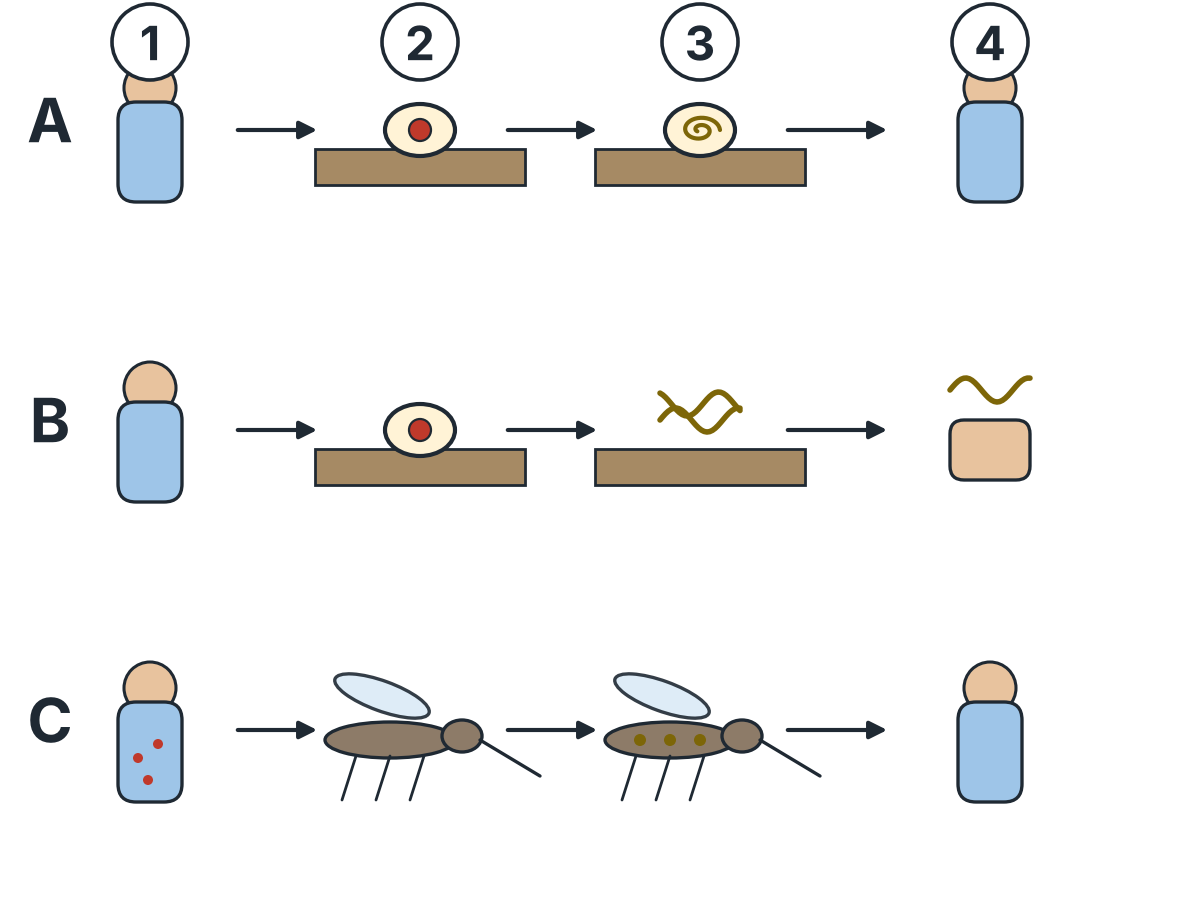
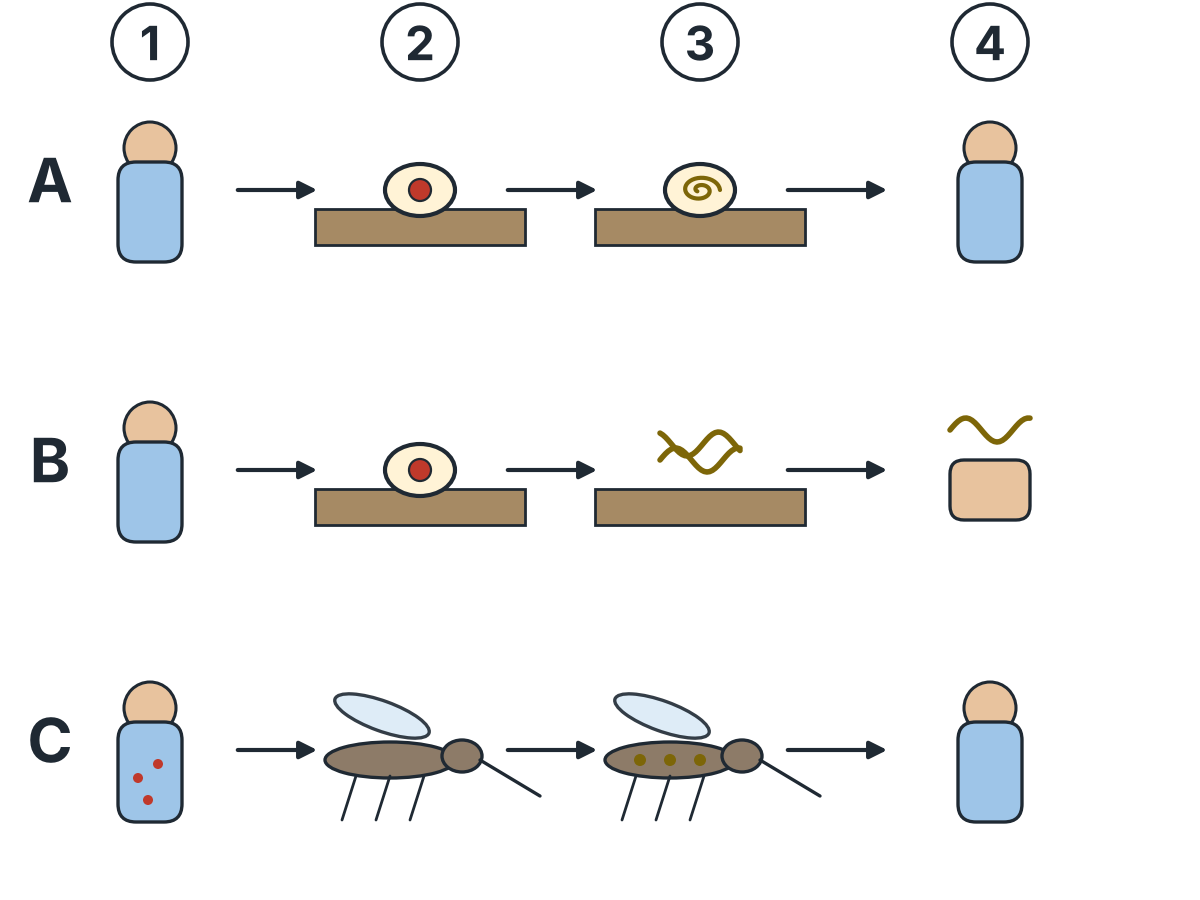
Figures stage 2c: chelicerate plan and stem-borer cycle; audit fixes (numeral clamp, aurelia dome, nematode-routes heads, fluke caption key); docs
Claude-Session: https://claude.ai/code/session_01QePQvU2CP48MhK51vJMGir

diff --git a/native-app/app/src/main/java/com/gasczoology/invertebratelab/data/PlatyAdaptationsBookChapter.kt b/native-app/app/src/main/java/com/gasczoology/invertebratelab/data/PlatyAdaptationsBookChapter.kt
@@ -109,8 +109,8 @@ object PlatyAdaptationsBookChapter {
                     bp("In the life cycle of a fluke each larva has a task. The miracidium is a ciliated, swimming larva whose task is to find and enter the snail. Inside the snail the sporocyst and the rediae multiply the parasite without any sexual process, by the production of germ cells that develop into new larvae. The cercaria has a tail, leaves the snail and swims or crawls until it settles on a surface and encysts, as a metacercaria, which is the stage that infects the final host. The larvae are thus a series of devices, in which the first finds a host, the middle ones multiply, and the last waits for a host.",
                         "புழுவின் வாழ்க்கைச் சுழற்சியில் ஒவ்வொரு லார்வாவுக்கும் ஒரு பணி உள்ளது. மிராசிடியம் சிலியா கொண்ட நீந்தும் லார்வா; நத்தையைக் கண்டுபிடித்து நுழைவது அதன் பணி. நத்தையினுள் ஸ்போரோசிஸ்டும் ரெடியாவும் பாலியல் செயல்முறை இன்றி, புதிய லார்வாக்களாக வளரும் இனச் செல்களை உருவாக்கி ஒட்டுண்ணியைப் பெருக்குகின்றன. வால் கொண்ட செர்க்கேரியா நத்தையை விட்டு வெளியேறி, ஒரு பரப்பில் படிந்து மெட்டாசெர்க்கேரியாவாகப் புடைப்புறை உருவாக்கும் வரை நீந்துகிறது அல்லது ஊர்கிறது; இதுவே இறுதி விருந்தோம்பியைத் தொற்றும் நிலை. இவ்வாறு லார்வாக்கள் ஒரு தொடர் சாதனங்கள்: முதலாவது விருந்தோம்பியைக் கண்டறிகிறது, நடுவில் உள்ளவை பெருக்குகின்றன, கடைசி விருந்தோம்பிக்காகக் காத்திருக்கிறது."),
                     bfig("lib/fluke-larvae",
-                        "Larval series of a fluke (schematic; the heavy outline is the snail host): (1) miracidium, which finds and enters the snail, (2) sporocyst and (3) rediae, which multiply the parasite asexually (curved arrow), (4) cercaria with a tail, which leaves the snail, (5) metacercaria, encysted on a surface, (6) final host, infected by the metacercaria.",
-                        "தட்டைப்புழு (ஃப்ளூக்) லார்வா வரிசை (படத்திட்டம்; தடித்த வெளிக்கோடு நத்தை விருந்தோம்பி): (1) நத்தையைக் கண்டறிந்து நுழையும் மிராசிடியம், (2) ஸ்போரோசிஸ்ட் மற்றும் (3) ரெடியாக்கள், இவை பாலிலா முறையில் ஒட்டுண்ணியைப் பெருக்குகின்றன (வளைந்த அம்பு), (4) வாலுடன் நத்தையை விட்டு வெளியேறும் செர்க்காரியா, (5) ஒரு பரப்பில் கூடு கட்டிய மெட்டாசெர்க்காரியா, (6) மெட்டாசெர்க்காரியாவால் தொற்றப்படும் இறுதி விருந்தோம்பி."),
+                        "Larval series of a fluke (schematic): (1) miracidium, which finds and enters the snail, (2) sporocyst and (3) rediae, which multiply the parasite asexually (curved arrow), (4) cercaria with a tail, which leaves the snail, (5) metacercaria, encysted on a surface, (6) final host, infected by the metacercaria, (7) the snail host (heavy outline).",
+                        "தட்டைப்புழு (ஃப்ளூக்) லார்வா வரிசை (படத்திட்டம்): (1) நத்தையைக் கண்டறிந்து நுழையும் மிராசிடியம், (2) ஸ்போரோசிஸ்ட் மற்றும் (3) ரெடியாக்கள், இவை பாலிலா முறையில் ஒட்டுண்ணியைப் பெருக்குகின்றன (வளைந்த அம்பு), (4) வாலுடன் நத்தையை விட்டு வெளியேறும் செர்க்காரியா, (5) ஒரு பரப்பில் கூடு கட்டிய மெட்டாசெர்க்காரியா, (6) மெட்டாசெர்க்காரியாவால் தொற்றப்படும் இறுதி விருந்தோம்பி, (7) நத்தை விருந்தோம்பி (தடித்த வெளிக்கோடு)."),
                     bdef("Cercaria", "செர்க்கேரியா (Cercaria)", "The tailed larva that leaves the snail in a fluke life cycle and goes on to infect the next host or to encyst." to
                         "புழு வாழ்க்கைச் சுழற்சியில் நத்தையை விட்டு வெளியேறி அடுத்த விருந்தோம்பியைத் தொற்றும் அல்லது புடைப்புறை உருவாக்கும் வால் கொண்ட லார்வா."),
                     bdef("Metacercaria", "மெட்டாசெர்க்கேரியா (Metacercaria)", "The encysted resting stage of a fluke that infects the final host when it is swallowed." to

diff --git a/native-app/app/src/main/java/com/gasczoology/invertebratelab/data/CerealPestsBookChapter.kt b/native-app/app/src/main/java/com/gasczoology/invertebratelab/data/CerealPestsBookChapter.kt
@@ -30,6 +30,9 @@ object CerealPestsBookChapter {
                     bsub("Life history", "வாழ்க்கை வரலாறு",
                         bp("The female moth is bright yellowish brown with a black spot in the middle of each forewing and a tuft of yellow hairs at the tip of the abdomen, and the male is smaller and paler, with no spot. The female lays her eggs near the tips of the leaves in masses that are covered with buff-coloured hairs from her abdomen, which protect the eggs. The eggs hatch in about five to eight days. The tiny larvae spin silk threads, drift on the wind to other plants or to the base of the plant, and bore into the leaf sheath and then into the stem. The larva is pale yellow with a dark brown head and feeds inside for about 28 to 30 days, passing through several instars. It pupates in a white silken cocoon within the stem or in the stubble, and the pupal period is about 8 to 10 days. In regions with a dry or cold season the larva may remain inactive in the stubble, and this resting stage allows the pest to survive until the next crop." to
                             "பெண் அந்துப்பூச்சி பளிச்சிடும் மஞ்சள் கலந்த பழுப்பு நிறம்; ஒவ்வொரு முன்னிறக்கையின் நடுவிலும் கரும்புள்ளியும் வயிற்று நுனியில் மஞ்சள் மயிர்க்கொத்தும் உள்ளன; ஆண் சிறியது, வெளிர் நிறம், புள்ளியற்றது. பெண் ஓலைகளின் நுனி அருகே, வயிற்றிலிருந்து வரும் மஞ்சள் பழுப்பு மயிர்களால் மூடப்பட்டு முட்டைகளைக் காக்கும் திரள்களாக முட்டையிடுகிறது. முட்டைகள் ஏறக்குறைய ஐந்து முதல் எட்டு நாட்களில் பொரிகின்றன. சிறு புழுக்கள் பட்டு இழைகளை நெய்து காற்றில் மிதந்து பிற தாவரங்களுக்கோ தாவர அடிக்கோ சென்று, இலையுறைக்குள்ளும் பின் தண்டுக்குள்ளும் துளைக்கின்றன. புழு வெளிர் மஞ்சள், அடர் பழுப்பு தலையுடையது; பல புழுப் பருவங்களைக் கடந்து உள்ளே ஏறக்குறைய 28 முதல் 30 நாட்கள் உண்கிறது. தண்டுக்குள் அல்லது அடிக்கட்டையில் வெள்ளைப் பட்டுக் கூட்டில் கூட்டுப்புழுவாகிறது; கூட்டுப்புழுக் காலம் ஏறக்குறைய 8 முதல் 10 நாட்கள். வறண்ட அல்லது குளிர் பருவம் உள்ள பகுதிகளில் புழு அடிக்கட்டையில் செயலற்று இருக்கக்கூடும்; இந்த ஓய்வு நிலை அடுத்த பயிர் வரை பீடை உயிர் வாழ உதவுகிறது."),
+                        bfig("lib/stem-borer-cycle",
+                            "Life cycle of the yellow stem borer (schematic): (1) egg mass near the tip of a rice leaf, covered with hairs from the female, (2) larva boring in the stem, (3) pupa in a silken cocoon within the stem or stubble, (4) adult moth.",
+                            "மஞ்சள் தண்டுத் துளைப்பானின் வாழ்க்கைச் சுழற்சி (படத்திட்டம்): (1) நெல் இலையின் நுனிக்கருகில் பெண் அந்துப்பூச்சியின் முடிகளால் மூடப்பட்ட முட்டைக் குவியல், (2) தண்டைத் துளைக்கும் புழு, (3) தண்டிலோ அடிக்கட்டையிலோ பட்டு கூட்டில் உள்ள கூட்டுப்புழு, (4) முதிர்ந்த அந்துப்பூச்சி."),
                         btable("Life history of the yellow stem borer", "மஞ்சள் தண்டுத் துளைப்பானின் வாழ்க்கை வரலாறு",
                             listOf("Stage" to "நிலை", "Description" to "விளக்கம்", "Approximate duration" to "ஏறக்குறைய கால அளவு"),
                             listOf(

diff --git a/native-app/app/src/main/java/com/gasczoology/invertebratelab/data/ChelicerataBookChapter.kt b/native-app/app/src/main/java/com/gasczoology/invertebratelab/data/ChelicerataBookChapter.kt
@@ -24,6 +24,9 @@ object ChelicerataBookChapter {
                     bsub("The body plan", "உடல் அமைப்பு",
                         bp("The body of a chelicerate is divided into two regions, the prosoma and the opisthosoma. The prosoma, which is also called the cephalothorax, is formed by the fusion of the head and the thorax, and it is covered by a single shield, the carapace. It carries the eyes and six pairs of appendages. The first pair are the chelicerae, which are used for seizing and tearing the food or, in the spiders, for injecting venom. The second pair are the pedipalps, which are sensory in the spiders, large pincers in the scorpions and leg-like in the horseshoe crab. The last four pairs are the walking legs. The opisthosoma, or abdomen, carries the respiratory and the reproductive organs, and it may end in a tail spine or sting." to
                             "செலிசெராட்டாவின் உடல் புரோசோமா, ஆப்பிஸ்தோசோமா என இரு பகுதிகளாகப் பிரிகிறது. புரோசோமா (செபலோதொராக்ஸ் எனவும் அழைக்கப்படும்) தலையும் மார்பும் இணைந்து உருவானது; ஒற்றைக் கேடயமான காரபேசால் மூடப்பட்டுள்ளது. அது கண்களையும் ஆறு இணை உறுப்புகளையும் தாங்குகிறது. முதல் இணை செலிசெராக்கள்; உணவைப் பற்றவும் கிழிக்கவும், சிலந்திகளில் நஞ்சு செலுத்தவும் பயன்படுகின்றன. இரண்டாம் இணை பெடிபால்ப்கள்; சிலந்திகளில் உணர்வுறுப்புகள், தேள்களில் பெரிய இடுக்கிகள், குதிரைலாட நண்டில் கால் போன்றவை. கடைசி நான்கு இணைகள் நடைக்கால்கள். ஆப்பிஸ்தோசோமா (வயிறு) சுவாச, இனப்பெருக்க உறுப்புகளைத் தாங்குகிறது; வால் முள் அல்லது கொடுக்கில் முடியலாம்."),
+                        bfig("lib/chelicerate-plan",
+                            "Body plan of a chelicerate in dorsal view (schematic, based on a spider-like form; the pedipalps differ among the groups): (1) prosoma, covered by a single carapace, (2) opisthosoma, (3) eyes, (4) chelicerae, first pair, (5) pedipalps, second pair, (6) walking legs, four pairs, (7) tail spine, present in some forms.",
+                            "செலிசெரேட்டின் உடல் அமைப்பு, முதுகுப்புறக் காட்சி (படத்திட்டம், சிலந்தி போன்ற வடிவை அடிப்படையாகக் கொண்டது; பெடிபால்ப்கள் குழுக்களுக்கிடையே வேறுபடும்): (1) ஒரே கேரப்பேசால் மூடப்பட்ட புரோசோமா, (2) ஓபிஸ்தோசோமா, (3) கண்கள், (4) செலிசெராக்கள், முதல் இணை, (5) பெடிபால்ப்கள், இரண்டாம் இணை, (6) நடைக்கால்கள், நான்கு இணைகள், (7) சில வடிவங்களில் உள்ள வால்முள்."),
                         bdef("Prosoma", "புரோசோமா (Prosoma)", "The anterior body region of a chelicerate, formed by fusion of head and thorax and bearing the eyes and six pairs of appendages." to
                             "செலிசெராட்டாவின் முன் உடல் பகுதி; தலையும் மார்பும் இணைந்து உருவாகி, கண்களையும் ஆறு இணை உறுப்புகளையும் தாங்குகிறது."),
                         bdef("Opisthosoma", "ஆப்பிஸ்தோசோமா (Opisthosoma)", "The posterior body region of a chelicerate, or abdomen, bearing the respiratory and reproductive organs." to

diff --git a/native-app/app/src/main/java/com/gasczoology/invertebratelab/data/BookFigureLibrary.kt b/native-app/app/src/main/java/com/gasczoology/invertebratelab/data/BookFigureLibrary.kt
@@ -70,7 +70,7 @@ object BookFigureLibrary {
         "cuticle-layers", "limb-lever", "cephalopod-circulation", "cockroach-gut",
         "wuchereria-cycle", "fluke-larvae", "sponge-sexual-cycle", "food-vacuole",
         "tardigrade", "scaphopod", "termite-castes", "waggle-dance", "obelia-colony",
-        "peripatus-external", "squid-jet",
+        "peripatus-external", "squid-jet", "chelicerate-plan", "stem-borer-cycle",
     ).map { BookLibraryFigure(it, "book_figures/$it", schematic) }
 
     private val byId = all.associateBy { it.id }

diff --git a/tools/book_figure_gen.py b/tools/book_figure_gen.py
@@ -51,6 +51,9 @@ def num(ax, n, tx, ty, px=None, py=None, r=38):
         ax.plot([tx, px], [ty, py], color=INK, lw=1.8, zorder=8)
         ax.add_patch(Circle((px, py), 5, color=INK, zorder=9))
     r = max(r, 38)   # numerals must stay readable when the figure is shown at phone width
+    x0, x1 = ax.get_xlim(); y0, y1 = ax.get_ylim()   # keep the whole marker inside the picture
+    tx = min(max(tx, x0 + r + 4), x1 - r - 4)
+    ty = min(max(ty, y0 + r + 4), y1 - r - 4)
     ax.add_patch(Circle((tx, ty), r, fc="white", ec=INK, lw=2.6, zorder=10))
     ax.text(tx, ty - 1, str(n), ha="center", va="center", fontsize=(34 if n < 10 else 29), fontweight="bold",
             color=INK, zorder=11)
@@ -636,7 +639,7 @@ def aurelia_cycle():
             line(ax, [(x + dx * s, y), (x + dx * s * 1.4, y - 100 * s)], lw=4, color="#7fa6c9")
         for dx in range(-140, 141, 28):
             line(ax, [(x + dx * s, y), (x + dx * s, y - 22 * s)], lw=1.5)
-    medusa(600, 760, 1.0)
+    medusa(600, 735, 1.0)
     # 2 planula (right)
     ell(ax, 1000, 640, 160, 80, fc="#f7e6b5")
     for k in range(10):
@@ -657,7 +660,7 @@ def aurelia_cycle():
         a = 2 * np.pi * k / 8
         poly(ax, [(x + 22 * np.cos(a - 0.2), y + 22 * np.sin(a - 0.2)), (x + 78 * np.cos(a), y + 78 * np.sin(a)), (x + 22 * np.cos(a + 0.2), y + 22 * np.sin(a + 0.2))], fc="#d6e8f7", lw=2)
     ax.add_patch(Circle((x, y), 28, fc="#d6e8f7", ec=INK, lw=2.4, zorder=4))
-    arrow(ax, (700, 780), (900, 700), rad=-0.2)
+    arrow(ax, (700, 760), (900, 700), rad=-0.2)
     arrow(ax, (1000, 590), (980, 440), rad=0.0)
     arrow(ax, (880, 240), (700, 190), rad=0.2)
     arrow(ax, (490, 190), (300, 240), rad=0.2)
@@ -1121,7 +1124,7 @@ def nematode_routes():
             for dx in (-30, 0, 30):
                 ax.add_patch(Circle((x + dx, y), 6, fc="#7d6608", zorder=6))
     xs = [150, 420, 700, 990]
-    ys = [750, 450, 150]
+    ys = [690, 410, 130]
     for y, l in zip(ys, "ABC"):
         letter(ax, l, 50, y + 30)
     # A  Ascaris: person -> egg -> embryonated egg in soil -> person swallows it
@@ -1400,7 +1403,7 @@ def symmetry_types():
     ell(ax, 1000, 320, 330, 190, fc="#d9c7a0", z=3)
     ell(ax, 880, 320, 90, 110, fc="#d9a066", z=4)
     ax.add_patch(Circle((870, 345), 9, fc=INK, zorder=7)); ax.add_patch(Circle((870, 295), 9, fc=INK, zorder=7))
-    ax.plot([800, 1200], [320, 320], color=INK, lw=1.6, linestyle=(0, (6, 5)), zorder=7)
+    ax.plot([800, 1170], [320, 320], color=INK, lw=1.6, linestyle=(0, (6, 5)), zorder=7)
     num(ax, 1, 600, 560, 600, 345)
     num(ax, 2, 740, 110, 690, 214)
     num(ax, 3, 790, 470, 870, 380)
@@ -2007,6 +2010,74 @@ def squid_jet():
     save(fig, "squid-jet")
 
 
+
+# ---------------------------------------------------------------- stage 4 additions
+def chelicerate_plan():
+    fig, ax = canvas()
+    ell(ax, 760, 450, 420, 300, fc=BODY2, z=3)                                   # opisthosoma
+    for x in (640, 720, 800, 880):
+        line(ax, [(x, 320), (x, 580)], lw=1.6, color="#9a8a6a", z=4, ls="--")
+    poly(ax, [(870, 440), (1010, 450), (870, 460)], fc=BODY2, z=2)               # tail spine (some forms)
+    poly(ax, [(430, 450), (500, 300), (620, 270), (640, 450), (620, 630), (500, 600)], fc=BODY, z=5)   # prosoma, one shield
+    for k, x in enumerate((470, 540, 600, 650)):                                 # four pairs of walking legs
+        for sgn in (1, -1):
+            line(ax, [(x, 450 + sgn * 130), (x - 40 + 30 * k * 0, 450 + sgn * 230), (x - 130 + 30 * k, 450 + sgn * 300)],
+                 lw=7, z=2)
+    for sgn in (1, -1):                                                          # pedipalps
+        line(ax, [(440, 450 + sgn * 70), (370, 450 + sgn * 130), (300, 450 + sgn * 150)], lw=9, z=2)
+        line(ax, [(430, 450 + sgn * 25), (340, 450 + sgn * 35), (290, 450 + sgn * 22)], lw=7, z=2)   # chelicerae
+        ax.add_patch(Circle((520, 450 + sgn * 45), 14, fc=INK, zorder=7))        # eyes
+    num(ax, 1, 520, 780, 540, 540)
+    num(ax, 2, 800, 780, 800, 600)
+    num(ax, 3, 520, 120, 520, 405)
+    num(ax, 4, 230, 590, 300, 468)
+    num(ax, 5, 230, 790, 330, 580)
+    num(ax, 6, 400, 840, 440, 752)
+    num(ax, 7, 1060, 560, 990, 458)
+    save(fig, "chelicerate-plan")
+
+
+def stem_borer_cycle():
+    fig, ax = canvas()
+    cx, cy, rx, ry = 600, 450, 420, 300
+    pts = [(cx + rx * np.cos(np.deg2rad(a)), cy + ry * np.sin(np.deg2rad(a))) for a in (90, 0, -90, 180)]
+    # 1 egg mass near the tip of a leaf (covered with hairs)
+    x, y = pts[0]
+    poly(ax, [(x - 110, y - 30), (x + 130, y + 20), (x + 130, y - 10), (x - 110, y - 50)], fc="#bfe3c0", z=2)
+    for dx, dy in ((-30, 0), (10, 8), (50, 14), (-10, 28), (30, 36), (70, 32)):
+        ell(ax, x + dx, y + dy, 40, 26, fc="#f7e6b5", lw=1.8)
+    for dx in range(-40, 90, 18):
+        line(ax, [(x + dx, y + 50), (x + dx + 6, y + 70)], lw=1.4, color="#b79a5a")
+    # 2 larva boring in the stem (stem in section)
+    x, y = pts[1]
+    rect(ax, x - 55, y - 150, 110, 300, fc="#bfe3c0", r=20)
+    rect(ax, x - 30, y - 120, 60, 240, fc="#f4f1e0", r=10, lw=1.6)
+    ell(ax, x, y, 36, 130, fc="#f6e9a2", ang=15, lw=2)
+    ax.add_patch(Circle((x + 12, y + 70), 15, fc="#7a4a2a", ec=INK, lw=2, zorder=6))
+    # 3 pupa in a silken cocoon within the stem or stubble
+    x, y = pts[2]
+    rect(ax, x - 55, y - 80, 110, 160, fc="#bfe3c0", r=20)
+    ell(ax, x, y, 70, 130, fc="#ffffff", lw=2.4)
+    ell(ax, x, y, 36, 96, fc="#c9a566", lw=2.2)
+    # 4 adult moth
+    x, y = pts[3]
+    ell(ax, x, y, 120, 30, fc="#d9b05e")
+    ell(ax, x - 60, y, 36, 30, fc="#d9b05e")
+    poly(ax, [(x + 10, y + 10), (x - 70, y + 110), (x + 60, y + 90), (x + 90, y + 20)], fc="#ecc872", z=2)
+    poly(ax, [(x + 10, y - 10), (x - 70, y - 110), (x + 60, y - 90), (x + 90, y - 20)], fc="#ecc872", z=2)
+    ax.add_patch(Circle((x - 5, y + 60), 9, fc=INK, zorder=7))
+    ax.add_patch(Circle((x - 5, y - 60), 9, fc=INK, zorder=7))
+    for i in range(4):
+        a, b = pts[i], pts[(i + 1) % 4]
+        arrow(ax, (a[0] + (b[0] - a[0]) * .30, a[1] + (b[1] - a[1]) * .30),
+              (a[0] + (b[0] - a[0]) * .72, a[1] + (b[1] - a[1]) * .72), rad=-0.18, lw=3.4)
+    num(ax, 1, 330, 820, 480, 780)
+    num(ax, 2, 1110, 700, 1040, 520)
+    num(ax, 3, 840, 80, 628, 130)
+    num(ax, 4, 100, 700, 140, 520)
+    save(fig, "stem-borer-cycle")
+
+
 # Figures kept after visual review. Others drawn during development (chelicerate, myriapod,
 # flower, economic threshold, nephridia, chiton, bivalve, IPM ladder) were rejected as
 # anatomically unclear or unsupported by the chapter text and are not shipped.
@@ -2030,7 +2101,8 @@ ALL = {"insect-tagmata": insect_tagmata, "metamorphosis": metamorphosis,
        "fluke-larvae": fluke_larvae, "sponge-sexual-cycle": sponge_sexual_cycle,
        "food-vacuole": food_vacuole, "tardigrade": tardigrade, "scaphopod": scaphopod,
        "termite-castes": termite_castes, "waggle-dance": waggle_dance, "obelia-colony": obelia_colony,
-       "peripatus-external": peripatus_external, "squid-jet": squid_jet}
+       "peripatus-external": peripatus_external, "squid-jet": squid_jet,
+       "chelicerate-plan": chelicerate_plan, "stem-borer-cycle": stem_borer_cycle}
 
 if __name__ == "__main__":
     wanted = sys.argv[1:] or list(ALL)

diff --git a/tools/book_figure_place.py b/tools/book_figure_place.py
@@ -309,12 +309,12 @@ PLACEMENTS = [
      "(2) இரத்தத்தில் உள்ள மைக்ரோஃபைலேரியாக்கள், பெண் கொசு அவற்றை உறிஞ்சுகிறது, (3) கொசுவில் லார்வாக்கள் இரு முறை தோலுரித்து தொற்றும் மூன்றாம் நிலையை அடைகின்றன, "
      "(4) லார்வாக்கள் துளைக்குழலுக்குச் சென்று பின்னர் கடிக்கும்போது தோலுக்குள் நுழைகின்றன, (5) மனிதரில் மேலும் இரு முறை தோலுரித்து முதிர்ந்த புழுக்களாகின்றன."),
     ("PlatyAdaptationsBookChapter.kt", "larvae", None, "fluke-larvae",
-     "Larval series of a fluke (schematic; the heavy outline is the snail host): (1) miracidium, which finds and enters the snail, "
+     "Larval series of a fluke (schematic): (1) miracidium, which finds and enters the snail, "
      "(2) sporocyst and (3) rediae, which multiply the parasite asexually (curved arrow), (4) cercaria with a tail, which leaves the snail, "
-     "(5) metacercaria, encysted on a surface, (6) final host, infected by the metacercaria.",
-     "தட்டைப்புழு (ஃப்ளூக்) லார்வா வரிசை (படத்திட்டம்; தடித்த வெளிக்கோடு நத்தை விருந்தோம்பி): (1) நத்தையைக் கண்டறிந்து நுழையும் மிராசிடியம், "
+     "(5) metacercaria, encysted on a surface, (6) final host, infected by the metacercaria, (7) the snail host (heavy outline).",
+     "தட்டைப்புழு (ஃப்ளூக்) லார்வா வரிசை (படத்திட்டம்): (1) நத்தையைக் கண்டறிந்து நுழையும் மிராசிடியம், "
      "(2) ஸ்போரோசிஸ்ட் மற்றும் (3) ரெடியாக்கள், இவை பாலிலா முறையில் ஒட்டுண்ணியைப் பெருக்குகின்றன (வளைந்த அம்பு), (4) வாலுடன் நத்தையை விட்டு வெளியேறும் செர்க்காரியா, "
-     "(5) ஒரு பரப்பில் கூடு கட்டிய மெட்டாசெர்க்காரியா, (6) மெட்டாசெர்க்காரியாவால் தொற்றப்படும் இறுதி விருந்தோம்பி."),
+     "(5) ஒரு பரப்பில் கூடு கட்டிய மெட்டாசெர்க்காரியா, (6) மெட்டாசெர்க்காரியாவால் தொற்றப்படும் இறுதி விருந்தோம்பி, (7) நத்தை விருந்தோம்பி (தடித்த வெளிக்கோடு)."),
     ("PoriferaReproductionBookChapter.kt", "life-cycle", None, "sponge-sexual-cycle",
      "Sexual cycle of a calcareous sponge (schematic): (1) adult with eggs and sperm in the mesohyl, (2) sperm leave by the osculum, "
      "(3) a carrier cell brings a sperm to a retained egg, which is fertilised, (4) the zygote cleaves inside the parent, "
@@ -375,6 +375,19 @@ PLACEMENTS = [
      "(5) ink sac, (6) chromatophores in the skin, (7) jet of water expelled through the funnel, (8) direction of travel.",
      "கணவாயில் ஜெட் உந்துவிசை (படத்திட்டம், பக்கக் காட்சி): (1) தசையுள்ள மேண்டில், (2) துடுப்பு, (3) திசைதிருப்பி இயக்கத்தை வழிநடத்தக்கூடிய புனல், (4) கைகள், "
      "(5) மை பை, (6) தோலில் உள்ள நிறமி செல்கள், (7) புனல் வழியாக வெளியேற்றப்படும் நீர்த்தாரை, (8) இயக்கத்தின் திசை."),
+    # ---- stage 4 (2026-10-26)
+    ("ChelicerataBookChapter.kt", "position", "The body plan", "chelicerate-plan",
+     "Body plan of a chelicerate in dorsal view (schematic, based on a spider-like form; the pedipalps differ among the groups): "
+     "(1) prosoma, covered by a single carapace, (2) opisthosoma, (3) eyes, (4) chelicerae, first pair, (5) pedipalps, second pair, "
+     "(6) walking legs, four pairs, (7) tail spine, present in some forms.",
+     "செலிசெரேட்டின் உடல் அமைப்பு, முதுகுப்புறக் காட்சி (படத்திட்டம், சிலந்தி போன்ற வடிவை அடிப்படையாகக் கொண்டது; பெடிபால்ப்கள் குழுக்களுக்கிடையே வேறுபடும்): "
+     "(1) ஒரே கேரப்பேசால் மூடப்பட்ட புரோசோமா, (2) ஓபிஸ்தோசோமா, (3) கண்கள், (4) செலிசெராக்கள், முதல் இணை, (5) பெடிபால்ப்கள், இரண்டாம் இணை, "
+     "(6) நடைக்கால்கள், நான்கு இணைகள், (7) சில வடிவங்களில் உள்ள வால்முள்."),
+    ("CerealPestsBookChapter.kt", "stem-borer", "Life history", "stem-borer-cycle",
+     "Life cycle of the yellow stem borer (schematic): (1) egg mass near the tip of a rice leaf, covered with hairs from the female, "
+     "(2) larva boring in the stem, (3) pupa in a silken cocoon within the stem or stubble, (4) adult moth.",
+     "மஞ்சள் தண்டுத் துளைப்பானின் வாழ்க்கைச் சுழற்சி (படத்திட்டம்): (1) நெல் இலையின் நுனிக்கருகில் பெண் அந்துப்பூச்சியின் முடிகளால் மூடப்பட்ட முட்டைக் குவியல், "
+     "(2) தண்டைத் துளைக்கும் புழு, (3) தண்டிலோ அடிக்கட்டையிலோ பட்டு கூட்டில் உள்ள கூட்டுப்புழு, (4) முதிர்ந்த அந்துப்பூச்சி."),
 ]
 
 

diff --git a/docs/BOOK_STRUCTURE_AUDIT.md b/docs/BOOK_STRUCTURE_AUDIT.md
@@ -141,7 +141,7 @@ What changed:
 - 43 figure placements in 29 chapters (Nereis 8, protozoan parasites 4, insects 2, IPM 1,
   medical insects 1, protozoa economics 2, leech 1, annelid asexual reproduction 1,
   Aurelia/anemone 2, crinoid 1, Taenia 2). Placement is scripted in `tools/book_figure_place.py`.
-- 30 original schematics drawn by `tools/book_figure_gen.py`. They carry numerals only; the
+- 47 original schematics (30 in the first batch, 17 in the second) drawn by `tools/book_figure_gen.py`. They carry numerals only; the
   key is in the bilingual caption. Credit: "Original schematic · subject-expert review pending".
   Eight further drafts were rejected on review (unclear anatomy, or not supported by the
   chapter text) and are not shipped.
@@ -165,5 +165,21 @@ Audit of the figure sections (2026-10-26, after the last batch):
   eight are now in one chapter; they are sub-sampled by the decoder.
 - Not checked: how any figure looks on a device; Tamil caption wrapping.
 
-Still open: 23 chapters have no figure; the schematics and the AI-generated Nereis plates need
-a subject-expert check; the Compose rendering is verified by CI only.
+Second batch and final audit (2026-10-26, owner-approved: draw only what the chapter text supports):
+- 17 further original schematics in 15 chapters (Arthropoda 2, Cephalopods 2, Cockroach, Nematode parasites,
+  Platyhelminth adaptations, Porifera reproduction, Nutrition, Minor arthropods, Minor molluscs, Household insects,
+  Pollinators, Polymorphism, Peripatus, Chelicerata, Cereal pests). Two drafts (crustacean larval sequence, fossil order) were
+  rejected on review as uninformative and are not shipped.
+- Totals: 47 schematics + 12 other library images = 59 library entries, all with an image file and credit, none unused;
+  60 placements in 44 of 63 book chapters (one figure, the vector cycle, is used in two chapters on purpose).
+- Caption keys checked by script against the numerals drawn: English matches Tamil and the drawing everywhere.
+  One defect found and fixed (fluke larvae: numeral 7 was drawn but not keyed).
+- Layout defects found and fixed: the Aurelia medusa dome was cut by the top edge, several numerals touched the picture edge
+  (`num()` now keeps every marker inside the canvas), and numerals 1 and 4 of the nematode routes figure covered the heads.
+  The only figure that fills its edges is the tusk shell, where the sediment is deliberately full-bleed.
+- 8 chapters still have no figure, deliberately: Foot (a concept comparison; the three feet would need invented anatomy),
+  Fossils (the text gives only two dates; no figure adds to the table), Minor annelids, Annelid modes of life,
+  Crustacean larvae (the stage drawings were unclear), Coral economics, Crop pests (five different insects), Natural enemies
+  (the parasitoid cycle is already shown in the insect chapters).
+- Not checked: how any figure looks on a device; Tamil caption wrapping. The schematics and the AI-generated Nereis plates
+  have had no subject-expert review (owner: not required for now). Tamil captions are drafts.
